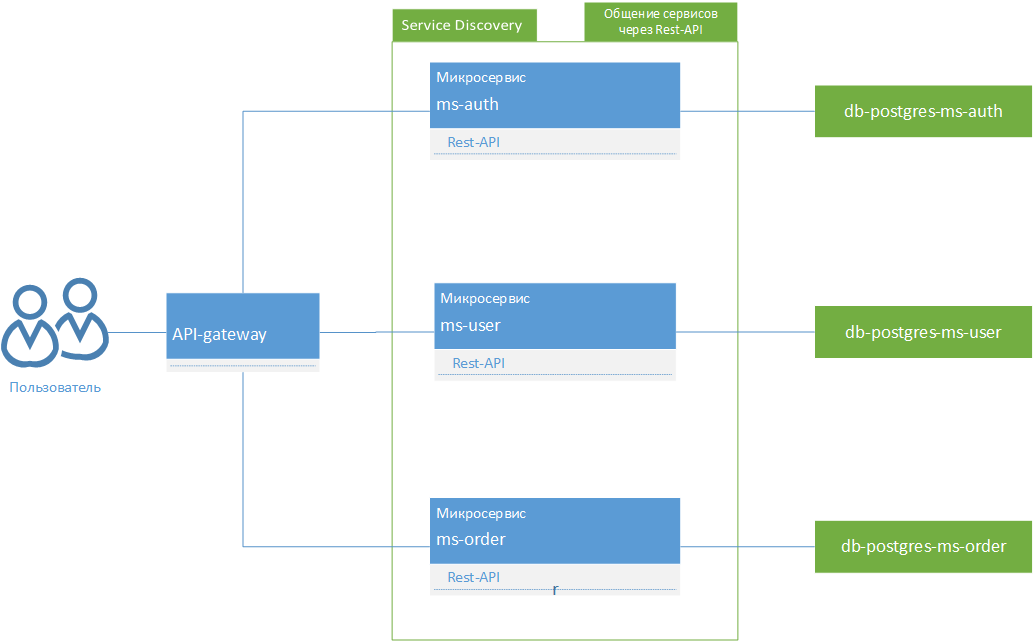
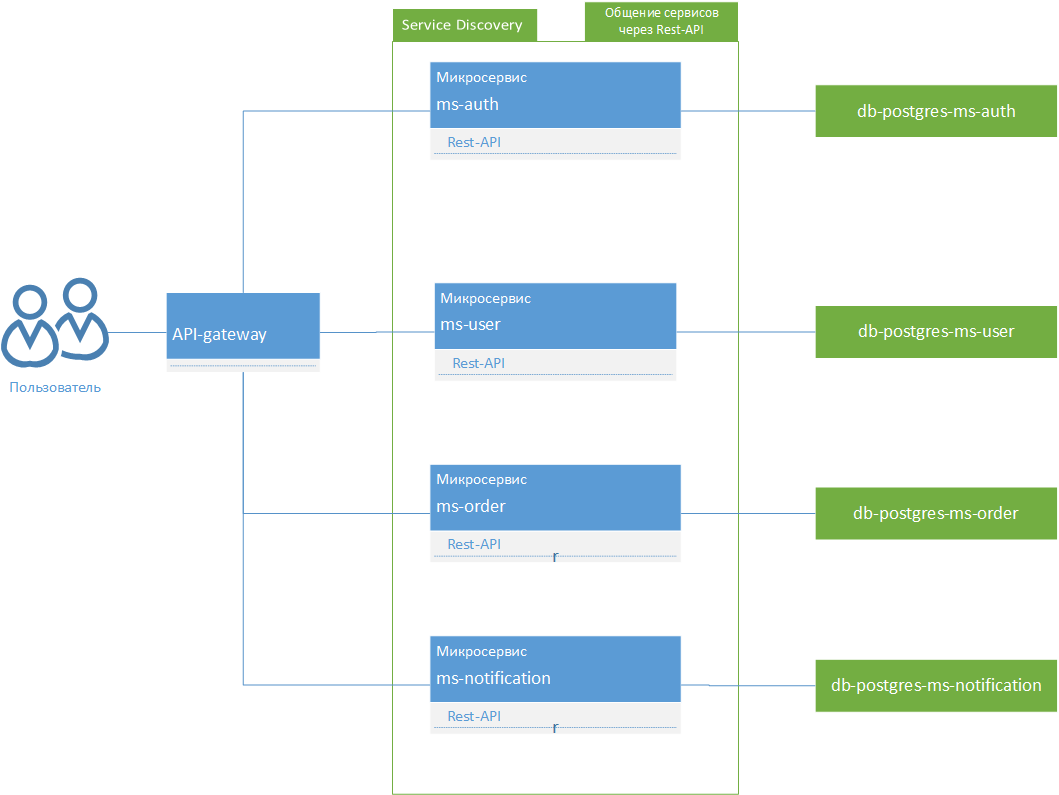
Добавлен ms-notification; Добавлено несколько методов в ms-order

diff --git a/hw08-decomposition/Decomposition.md b/hw08-decomposition/Decomposition.md
@@ -3,7 +3,7 @@
 > Пользователь авторизован?
 >> Нет
 >>> Пользователь зарегестрирован?
->>>> Нет, Регистрация
+>>>> Нет, Регистрация + Отправка уведомления
 >>>
 >> Авторизация
 >>
@@ -20,5 +20,20 @@
 
 > Создать заказ?
 >> Да, клиент указывает, что хочет заказать и происходит, Создание заказа
-> 
+>>> Заказ успешно создался?
+>>>> Нет, отправка уведомления с ошибкой, Отправление уведомления
+>>>>
+>>> Да, отправка увеомления с успехом, Отправление уведомления
+>
 
+> Клиент хочет дополнить или скорретировать заказ?
+>> Да, Обновление заказа + Отправка уведомления
+>
+
+> Клиент хочет удалить заказ?
+>> Да, Обновление заказа + Отправка уведомления
+>
+
+> Клиент хочет получить историю заказов?
+>> Да, Получение истории заказов
+> 

diff --git a/hw08-decomposition/Contracts.md b/hw08-decomposition/Contracts.md
@@ -94,3 +94,51 @@
 "idempotencyKey": "e3fb3ed1-4de1-4394-a180-e7d684d815be"
 }
 `
+- Изменение заказа
+> Rest-API. </br>
+> POST. Content-Type: application/json; </br>
+> URL: */order/change </br>
+> Example request:
+`
+{
+"orderId":63325,
+"orderName":"4343",
+"idempotencyKey": "e3fb3ed1-4de1-4394-a180-e7d684d815be"
+}
+`
+- Получение списка заказов
+> Rest-API. </br>
+> POST. Content-Type: application/json; </br>
+> URL: */order/history </br>
+> Example request:
+`
+{
+"userId":325,
+"idempotencyKey": "e3fb3ed1-4de1-4394-a180-e7d684d815be"
+}
+`
+- Отмена заказа
+> Rest-API. </br>
+> POST. Content-Type: application/json; </br>
+> URL: */order/cancel </br>
+> Example request:
+`
+{
+"userId":325,
+"orderId":63325,
+"idempotencyKey": "e3fb3ed1-4de1-4394-a180-e7d684d815be"
+}
+`
+
+### ms-notification
+- Отправка уведомления
+> Rest-API. </br>
+> POST. Content-Type: application/json; </br>
+> URL: */notification </br>
+> Example request:
+`
+{
+"email":test@test.test,
+"message":"Yo, created order."
+}
+`

diff --git a/hw08-decomposition/Appointment.md b/hw08-decomposition/Appointment.md
@@ -13,3 +13,9 @@
 
 ### ms-order
 - Создание заказа
+- Изменение заказа
+- Получение списка заказов
+- Отмена заказа
+
+### ms-notification
+- Отправка уведомлений по эл.почте пользователям
